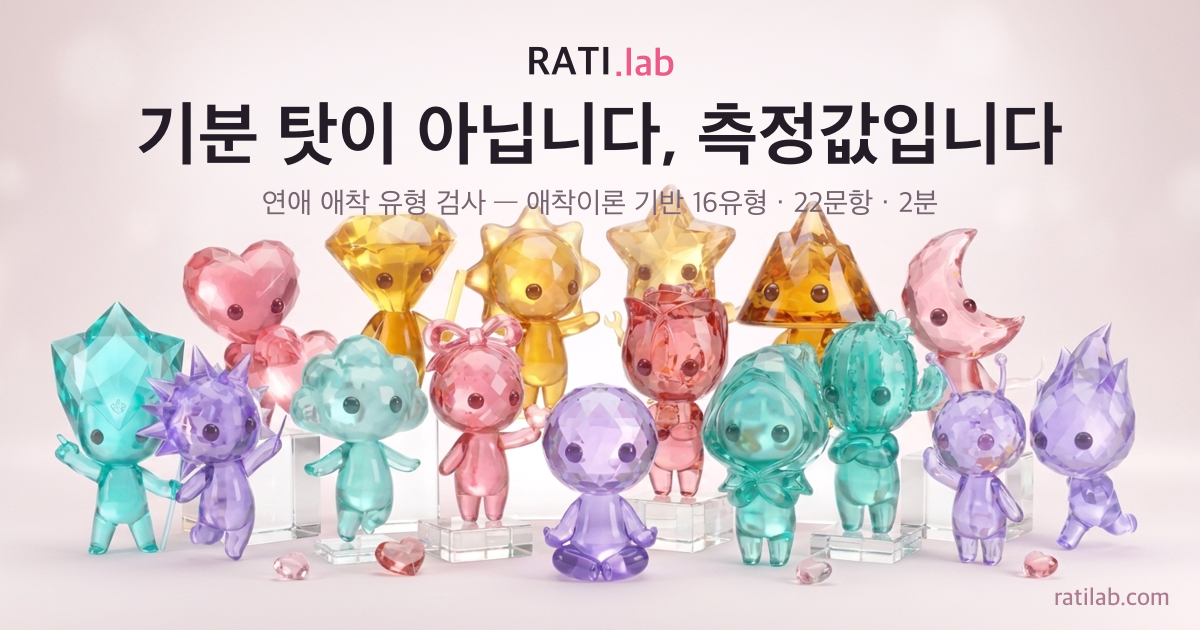
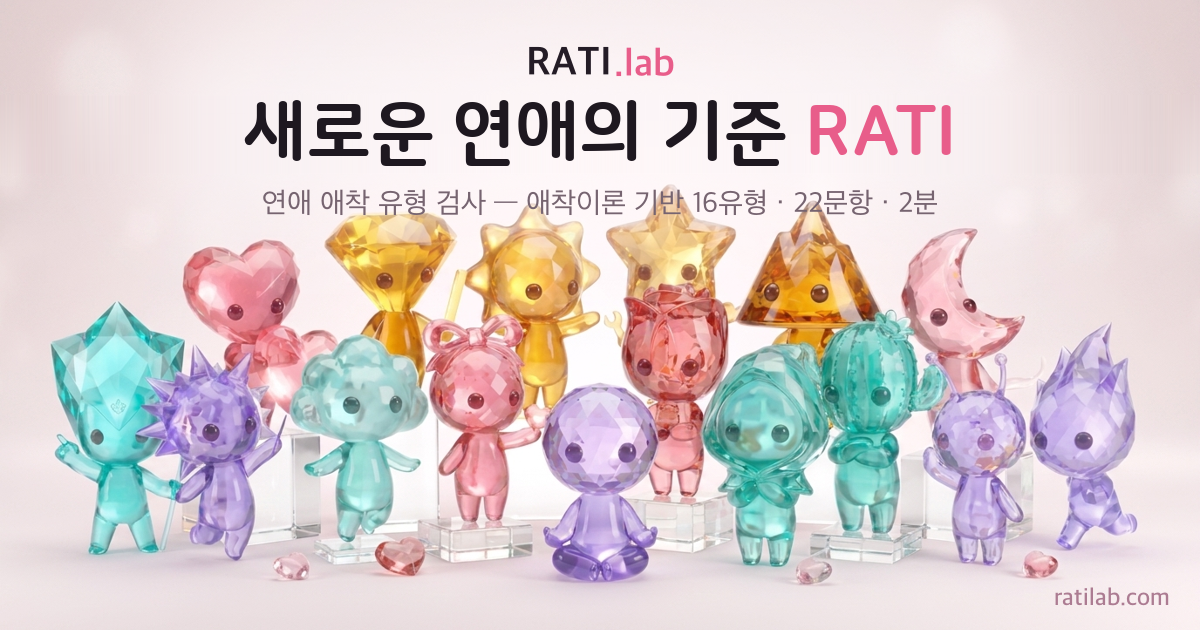
OG 이미지 교체: 헤드라인 "새로운 연애의 기준 RATI" · og.png?v=3
- og.png → 신규 시안(og_v3_pink, 1200×630)
- og:image / twitter:image 캐시 버스팅 v=2 → v=3 (index.html)
- 미버전 og.png 참조도 v=3 통일: type.html·types.html·event/ulsan (og:image), 카카오 공유 imageUrl (index.html·deep.html)

Changed region(s): [[0.1233, 0.1508, 0.8942, 0.2714]]

diff --git a/index.html b/index.html
@@ -180,10 +180,10 @@
 <meta property="og:title" content="RATI | 연애는 측정된다">
 <meta property="og:description" content="실제 상황 22개로 판정하는 나의 연애 유형. 4축·16유형·멘헤라 지수까지 무료.">
 <meta property="og:url" content="https://ratilab.com/">
-<meta property="og:image" content="https://ratilab.com/og.png?v=2">
+<meta property="og:image" content="https://ratilab.com/og.png?v=3">
 <meta property="og:image:width" content="1200">
 <meta property="og:image:height" content="630">
-<meta name="twitter:image" content="https://ratilab.com/og.png?v=2">
+<meta name="twitter:image" content="https://ratilab.com/og.png?v=3">
 <link rel="canonical" href="https://ratilab.com/">
 <meta name="twitter:card" content="summary_large_image">
 <link rel="preconnect" href="https://cdn.jsdelivr.net" crossorigin>
@@ -6055,7 +6055,7 @@ window.RATI_SHARE=(function(){
     if(ch==='kakao'){
       if(window.Kakao&&Kakao.Share&&CFG.kakaoKey){
         if(!Kakao.isInitialized())Kakao.init(CFG.kakaoKey);
-        Kakao.Share.sendDefault({objectType:'feed',content:{title:t,description:'22문항 · 4축 · 16유형 · 감이 아니라 좌표로',imageUrl:'https://ratilab.com/og.png',link:{mobileWebUrl:u,webUrl:u}},buttons:[{title:'나도 검사하기',link:{mobileWebUrl:u,webUrl:u}}]});return}
+        Kakao.Share.sendDefault({objectType:'feed',content:{title:t,description:'22문항 · 4축 · 16유형 · 감이 아니라 좌표로',imageUrl:'https://ratilab.com/og.png?v=3',link:{mobileWebUrl:u,webUrl:u}},buttons:[{title:'나도 검사하기',link:{mobileWebUrl:u,webUrl:u}}]});return}
       if(navigator.share){navigator.share({title:'RATI',text:t,url:u}).catch(function(){});return}
       copy(t+' '+u,'링크 복사 완료 · 카톡 채팅방에 붙여넣으세요 💬');return}
     if(ch==='insta'){

diff --git a/deep.html b/deep.html
@@ -476,7 +476,7 @@ a:focus-visible,button:focus-visible{outline:2.5px solid var(--rose);outline-off
         if(window.Kakao&&Kakao.Share&&Kakao.isInitialized&&Kakao.isInitialized()){
           try{
             Kakao.Share.sendDefault({objectType:'feed',
-              content:{title:'RATI 심층 테스트 — 지금 무료',description:'친구 1명에게 공유하면 무료 · 결과는 17쪽 리포트로 이메일 도착',imageUrl:'https://ratilab.com/og.png',link:{mobileWebUrl:U,webUrl:U}},
+              content:{title:'RATI 심층 테스트 — 지금 무료',description:'친구 1명에게 공유하면 무료 · 결과는 17쪽 리포트로 이메일 도착',imageUrl:'https://ratilab.com/og.png?v=3',link:{mobileWebUrl:U,webUrl:U}},
               buttons:[{title:'나도 무료로 받기',link:{mobileWebUrl:U,webUrl:U}}]});
             armReturn(b,'보냈어요 ✓');return;
           }catch(e){}

diff --git a/event/ulsan/index.html b/event/ulsan/index.html
@@ -7,7 +7,7 @@
 <meta name="robots" content="noindex,nofollow">
 <meta property="og:title" content="RATI 5초 검사 · 울산대 축제">
 <meta property="og:description" content="4번 탭하면 나의 연애 유형(RATI)이 나와요.">
-<meta property="og:image" content="https://ratilab.com/og.png">
+<meta property="og:image" content="https://ratilab.com/og.png?v=3">
 <script>/* 카톡·라인 인앱 → 외부 브라우저 자동 탈출, 실패 시 라이트 모드 폴백 (types.html과 동일) */
 try{var __ua=navigator.userAgent||'';
 if(/KAKAOTALK/i.test(__ua)){location.href='kakaotalk://web/openExternal?url='+encodeURIComponent(location.href);}

diff --git a/types.html b/types.html
@@ -55,7 +55,7 @@ if(/KAKAOTALK|Instagram|FBAN|FBAV|Line\/|DaumApps/i.test(__iu))__ir.classList.ad
 <meta property="og:title" content="16가지 연애 유형 · RATI.lab">
 <meta property="og:description" content="4그룹 16좌표 — 마음에 드는 유형을 눌러 자세히.">
 <meta property="og:url" content="https://ratilab.com/types.html">
-<meta property="og:image" content="https://ratilab.com/og.png">
+<meta property="og:image" content="https://ratilab.com/og.png?v=3">
 <meta name="twitter:card" content="summary_large_image">
 <link rel="canonical" href="https://ratilab.com/types.html">
 

diff --git a/type.html b/type.html
@@ -28,7 +28,7 @@ if(/KAKAOTALK|Instagram|FBAN|FBAV|Line\/|DaumApps/i.test(__iu))__ir.classList.ad
 <meta property="og:title" content="RATI 유형 상세 · RATI.lab">
 <meta property="og:description" content="4그룹 16좌표 — 마음에 드는 유형을 눌러 자세히.">
 <meta property="og:url" content="https://ratilab.com/type.html">
-<meta property="og:image" content="https://ratilab.com/og.png">
+<meta property="og:image" content="https://ratilab.com/og.png?v=3">
 <meta name="twitter:card" content="summary_large_image">
 <link rel="canonical" href="https://ratilab.com/type.html">
 
